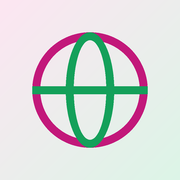
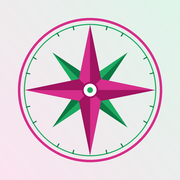
Add files via upload

diff --git a/index.html b/index.html
@@ -1,4 +1,4 @@
-<!doctype html><html><head><meta charset=utf8><title>Wanderlust</title><meta name="theme-color" content="#ffffff"><meta name="apple-mobile-web-app-capable" content="yes"><meta name="mobile-web-app-capable" content="yes"><meta name="apple-mobile-web-app-title" content="Wanderlust"><meta name="apple-mobile-web-app-status-bar-style" content="default"><link rel="apple-touch-icon" href="icon-180.png"><link rel="icon" type="image/png" href="icon-192.png"><link rel="manifest" href="manifest.webmanifest"><meta name=viewport content="width=device-width,initial-scale=1,viewport-fit=cover"><style>:root{color-scheme:light;box-sizing:border-box;padding-top:env(safe-area-inset-top,0px);padding-bottom:env(safe-area-inset-bottom,0px)}html{scroll-padding-top:env(safe-area-inset-top,0px)}body{margin:0;padding:0;font:14px -apple-system,BlinkMacSystemFont,sans-serif;background:#fff;color:#000}img{max-width:100%}[hidden]:not([hidden=until-found i]){display:none!important}</style></head><body>
+<!doctype html><html><head><meta charset=utf8><title>Wanderlust</title><meta name="theme-color" content="#ffffff"><meta name="apple-mobile-web-app-capable" content="yes"><meta name="mobile-web-app-capable" content="yes"><meta name="apple-mobile-web-app-title" content="Wanderlust"><meta name="apple-mobile-web-app-status-bar-style" content="default"><link rel="apple-touch-icon" href="icon-180.png?v=2"><link rel="icon" type="image/png" href="icon-192.png?v=2"><link rel="manifest" href="manifest.webmanifest?v=2"><meta name=viewport content="width=device-width,initial-scale=1,viewport-fit=cover"><style>:root{color-scheme:light;box-sizing:border-box;padding-top:env(safe-area-inset-top,0px);padding-bottom:env(safe-area-inset-bottom,0px)}html{scroll-padding-top:env(safe-area-inset-top,0px)}body{margin:0;padding:0;font:14px -apple-system,BlinkMacSystemFont,sans-serif;background:#fff;color:#000}img{max-width:100%}[hidden]:not([hidden=until-found i]){display:none!important}</style></head><body>
 <title>Wanderlust</title>
 <link rel="preconnect" href="https://fonts.googleapis.com">
 <link rel="preconnect" href="https://fonts.gstatic.com" crossorigin>
@@ -353,7 +353,7 @@ textarea.inp{min-height:76px;resize:vertical}
 <div class="top">
   <div class="bar1">
     <button class="wordmark" id="home" type="button" aria-label="Ir a todos los viajes">
-      <svg viewBox="0 0 24 24" fill="none" stroke="currentColor" stroke-width="1.6" aria-hidden="true"><circle cx="12" cy="12" r="9.2" style="stroke:var(--sea)"/><path d="M3.5 12h17M12 2.8c2.6 2.6 3.8 5.6 3.8 9.2s-1.2 6.6-3.8 9.2c-2.6-2.6-3.8-5.6-3.8-9.2S9.4 5.4 12 2.8z" style="stroke:var(--green)"/></svg>
+      <svg viewBox="0 0 24 24" aria-hidden="true"><circle cx="12" cy="12" r="10.6" fill="none" style="stroke:var(--sea)" stroke-width="1.3"/><g style="fill:var(--green)"><path d="M12 12L17.3 6.7 13.2 10.8z"/><path d="M12 12L17.3 17.3 13.2 13.2z"/><path d="M12 12L6.7 17.3 10.8 13.2z"/><path d="M12 12L6.7 6.7 10.8 10.8z"/></g><g style="fill:var(--sea)"><path d="M12 2.6L13.6 10.4 12 12 10.4 10.4z"/><path d="M21.4 12L13.6 13.6 12 12 13.6 10.4z"/><path d="M12 21.4L10.4 13.6 12 12 13.6 13.6z"/><path d="M2.6 12L10.4 10.4 12 12 10.4 13.6z"/></g><circle cx="12" cy="12" r="1.4" fill="#fff" style="stroke:var(--sea-ink)" stroke-width=".8"/></svg>
       <span class="wl"><span class="wl-a">Wander</span><span class="wl-b">lust</span></span>
     </button>
     <div class="meta" id="meta"></div>
